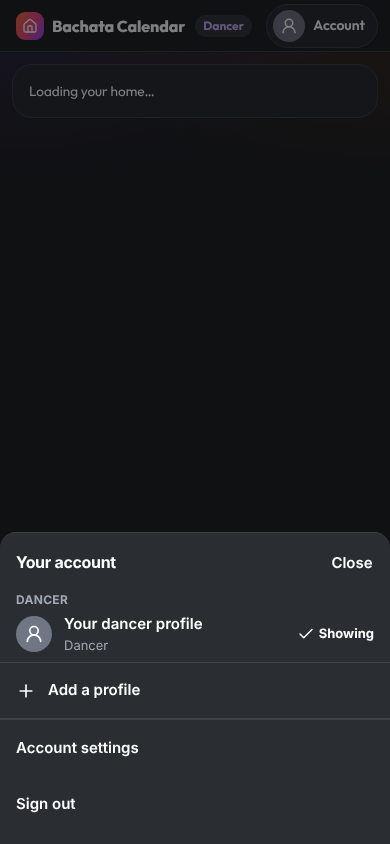
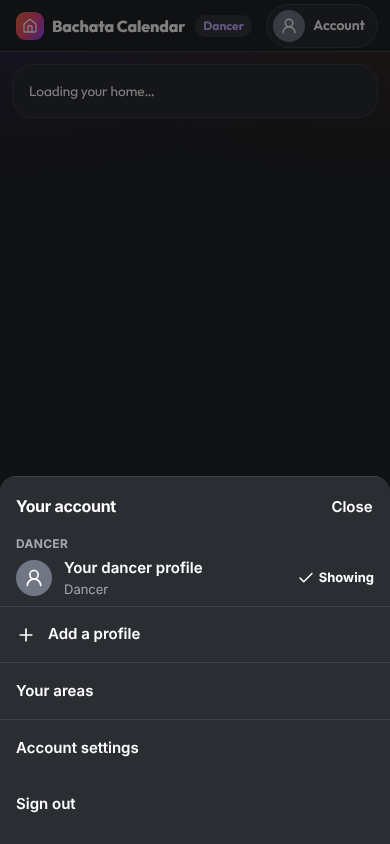
fix(dashboard-switch): dancer-area seam import, P3 walk split into test:e2e:p3 [worker-done dt_17d77993a23d]
Claude-Session: https://claude.ai/code/session_01WoGkiAc9t2iJFtXkLTnqFZ

diff --git a/tests/e2e/dashboard-switch-r4-p3.spec.ts b/tests/e2e/dashboard-switch-r4-p3.spec.ts
@@ -1,0 +1,71 @@
+import { test, expect, type Page } from '@playwright/test';
+import { OrganiserFake, PHONE, expectNoHorizontalScroll, json } from './helpers/organiserFake';
+
+// Dashboard switch, Round-4 everywhere -- the P3 / R4 organiser area part (runs in test:e2e:p3 with VITE_ENABLE_ORGANISER_P3=true).
+// Dashboard switch, Round-4 everywhere (docs/briefs/dashboard-switch-build.md) at 390x844 on the real app over the
+// route-mocked organiser fake. Flag OFF (the CI default) asserts today's screens are unchanged; flag ON asserts the
+// new look. Shots for the PR: DASH_SWITCH_SHOTS=<folder> (before-* with the flag off, after-* with it on):
+//   VITE_ENABLE_DASHBOARD_SWITCH_R4=true VITE_ENABLE_ORGANISER_P3=true npx playwright test tests/e2e/dashboard-switch-r4-p3.spec.ts
+// Shapes (prod, 2026-11-19): one organiser page is the common case (20 of 22 organisers); a dancer + organiser
+// account; Teacher picked at sign-up (10 accounts) vs Teacher merely held (127 active teaching roles).
+
+const ON = process.env.VITE_ENABLE_DASHBOARD_SWITCH_R4 === 'true';
+const P3_ON = process.env.VITE_ENABLE_ORGANISER_P3 === 'true';
+const SHOTS = process.env.DASH_SWITCH_SHOTS;
+const shot = async (page: Page, name: string, fullPage = false) => {
+  if (SHOTS) await page.screenshot({ path: `${SHOTS}/${ON ? 'after' : 'before'}-${name}.png`, fullPage });
+};
+const row = (role: string, active: boolean) => ({ role, active, complete: active });
+
+async function fake(page: Page, opts: { organiser: boolean; picked: string[] }) {
+  await new OrganiserFake({ noOrganiser: !opts.organiser, dancerProfile: 'complete' }).install(page);
+  // Teacher HELD (active role) in every shape: with the flag on it must not show unless also picked.
+  await page.route('**/rest/v1/rpc/my_roles_v1*', (r) => json(r, [row('dancer', true), row('organiser', opts.organiser), row('teacher', true), row('dj', false)]));
+  await page.route('**/rest/v1/rpc/my_role_intent_v1*', (r) => json(r, { roles: ['dancer', ...opts.picked], declined: [] }));
+  await page.route('**/rest/v1/rpc/my_profile_progress_v1*', (r) => json(r, { percent: 100, required_left: 0, publish_ready: true, steps: [{ area: 'teacher', field: 'teaching_styles', required: true, done: true }], declined: [] }));
+  await page.route('**/rest/v1/rpc/dancer_area_gate_v1*', (r) => json(r, { open: false, allowed: true }));
+}
+
+test.describe('dashboard switch, P3 area 390x844', () => {
+  test.use({ viewport: PHONE });
+
+  test('R4 organiser header and sheet', async ({ page }) => {
+    test.skip(!P3_ON, 'needs VITE_ENABLE_ORGANISER_P3=true (the P3 walks run it)');
+    await fake(page, { organiser: true, picked: [] });
+    await page.goto('/account/p3');
+    await expect(page.getByTestId('r4-header')).toBeVisible();
+    const btn = page.getByTestId('profile-switcher-button');
+    if (!ON) {
+      // Today the Round-4 organiser header has no Switch profile sheet (only the page name, which opens Switch page).
+      await expect(btn).toHaveCount(0);
+      await shot(page, 'organiser-header');
+      return;
+    }
+    await expect(btn).toBeVisible();
+    await shot(page, 'organiser-header');
+    await btn.click();
+    await expect(page.getByTestId('profile-switcher-sheet')).toHaveAttribute('data-look', 'r4');
+    await expect(page.getByTestId('profile-switcher-add')).toBeVisible();
+    await expect(page.getByTestId('profile-switcher-your-areas')).toBeVisible();
+    await expect(page.getByTestId('profile-switcher-sign-out')).toHaveCount(0);
+    await shot(page, 'organiser-sheet');
+    await expectNoHorizontalScroll(page);
+  });
+
+  test('organiser Switch page (P3 area)', async ({ page }) => {
+    test.skip(!P3_ON, 'needs VITE_ENABLE_ORGANISER_P3=true (the P3 walks run it)');
+    await fake(page, { organiser: true, picked: ['teacher'] });
+    await page.goto('/account/p3/you/switch');
+    await expect(page.getByTestId('switch-list')).toBeVisible();
+    await expect(page.getByTestId('switch-add-page')).toBeVisible();
+    if (ON) {
+      await expect(page.getByTestId('switch-soon-teacher')).toBeVisible();
+      await expect(page.getByTestId('switch-area-teacher')).toHaveCount(0);
+      await expect(page.getByTestId('add-profile-card')).toHaveCount(0);
+    } else {
+      await expect(page.getByTestId('switch-area-teacher')).toBeVisible();
+    }
+    await shot(page, 'switch-page');
+    await expectNoHorizontalScroll(page);
+  });
+});

diff --git a/tests/e2e/dashboard-switch-r4.spec.ts b/tests/e2e/dashboard-switch-r4.spec.ts
@@ -4,12 +4,12 @@ import { OrganiserFake, PHONE, expectNoHorizontalScroll, json } from './helpers/
 // Dashboard switch, Round-4 everywhere (docs/briefs/dashboard-switch-build.md) at 390x844 on the real app over the
 // route-mocked organiser fake. Flag OFF (the CI default) asserts today's screens are unchanged; flag ON asserts the
 // new look. Shots for the PR: DASH_SWITCH_SHOTS=<folder> (before-* with the flag off, after-* with it on):
-//   VITE_ENABLE_DASHBOARD_SWITCH_R4=true VITE_ENABLE_ORGANISER_P3=true npx playwright test tests/e2e/dashboard-switch-r4.spec.ts
+//   VITE_ENABLE_DASHBOARD_SWITCH_R4=true npx playwright test tests/e2e/dashboard-switch-r4.spec.ts
+// The P3 area (R4 header, Switch page) is walked in dashboard-switch-r4-p3.spec.ts (test:e2e:p3).
 // Shapes (prod, 2026-11-19): one organiser page is the common case (20 of 22 organisers); a dancer + organiser
 // account; Teacher picked at sign-up (10 accounts) vs Teacher merely held (127 active teaching roles).
 
 const ON = process.env.VITE_ENABLE_DASHBOARD_SWITCH_R4 === 'true';
-const P3_ON = process.env.VITE_ENABLE_ORGANISER_P3 === 'true';
 const SHOTS = process.env.DASH_SWITCH_SHOTS;
 const shot = async (page: Page, name: string, fullPage = false) => {
   if (SHOTS) await page.screenshot({ path: `${SHOTS}/${ON ? 'after' : 'before'}-${name}.png`, fullPage });
@@ -76,24 +76,17 @@ test.describe('dashboard switch 390x844', () => {
 
   test('organiser area sheet', async ({ page }) => {
     await fake(page, { organiser: true, picked: [] });
-    await page.goto(P3_ON ? '/account/p3' : '/account/o');
+    // The R1 organiser shell (P3 off, as this gate step runs); the R4 header is walked in dashboard-switch-r4-p3.spec.ts.
+    await page.goto('/account/o');
     const btn = page.getByTestId('profile-switcher-button');
-    if (P3_ON && !ON) {
-      // Today the Round-4 organiser header has no Switch profile sheet (only the page name, which opens Switch page).
-      await expect(page.getByTestId('r4-header')).toBeVisible();
-      await expect(btn).toHaveCount(0);
-      await shot(page, 'organiser-header');
-      return;
-    }
     await expect(btn).toBeVisible();
-    if (P3_ON) await shot(page, 'organiser-header');
     await btn.click();
     await expect(page.getByTestId('profile-switcher-sheet')).toBeVisible();
     // + Add a profile is in the organiser sheet only with the flag on.
     await expect(page.getByTestId('profile-switcher-add')).toHaveCount(ON ? 1 : 0);
     await expect(page.getByTestId('profile-switcher-sign-out')).toHaveCount(ON ? 0 : 1);
     await expect(page.getByTestId('profile-switcher-your-areas')).toBeVisible();
-    await shot(page, 'organiser-sheet');
+    await shot(page, 'organiser-r1-sheet');
     await expectNoHorizontalScroll(page);
   });
 
@@ -108,22 +101,5 @@ test.describe('dashboard switch 390x844', () => {
     await shot(page, 'settings-foot', true);
     await out.click();
     await expect(page.getByTestId('settings-signout-yes')).toBeVisible();
-  });
-
-  test('organiser Switch page (P3 area)', async ({ page }) => {
-    test.skip(!P3_ON, 'needs VITE_ENABLE_ORGANISER_P3=true (the P3 walks run it)');
-    await fake(page, { organiser: true, picked: ['teacher'] });
-    await page.goto('/account/p3/you/switch');
-    await expect(page.getByTestId('switch-list')).toBeVisible();
-    await expect(page.getByTestId('switch-add-page')).toBeVisible();
-    if (ON) {
-      await expect(page.getByTestId('switch-soon-teacher')).toBeVisible();
-      await expect(page.getByTestId('switch-area-teacher')).toHaveCount(0);
-      await expect(page.getByTestId('add-profile-card')).toHaveCount(0);
-    } else {
-      await expect(page.getByTestId('switch-area-teacher')).toBeVisible();
-    }
-    await shot(page, 'switch-page');
-    await expectNoHorizontalScroll(page);
   });
 });

diff --git a/src/components/account/profiles/ProfileSwitcherR4.tsx b/src/components/account/profiles/ProfileSwitcherR4.tsx
@@ -2,8 +2,7 @@ import { Suspense, useEffect, useId, useState, type CSSProperties, type ReactNod
 import { createPortal } from 'react-dom';
 import { Link } from 'react-router-dom';
 import { ChevronRight, Plus, X } from 'lucide-react';
-import { ACCOUNT_SETTINGS_PATH, APP_ACCOUNT_SETTINGS_PATH, ORGANISER_HOME_PATH, switcherItems, type SwitcherWhere } from '@/lib/accountRouting';
-import { ACCOUNT_SETTINGS_LABEL } from '@/modules/dancer-app/copy/sharedCopy';
+import { ACCOUNT_SETTINGS_LABEL, ACCOUNT_SETTINGS_PATH, APP_ACCOUNT_SETTINGS_PATH, ORGANISER_HOME_PATH, switcherItems, type SwitcherWhere } from '@/lib/accountRouting';
 import { dancerMessageUsUrl } from '@/lib/contactLinks';
 import { lazyWithRetry } from '@/lib/lazyWithRetry';
 import { SideAvatar, sideKind, sideTitle } from './SideAvatar';

diff --git a/docs/briefs/dashboard-switch-handover.md b/docs/briefs/dashboard-switch-handover.md
@@ -10,13 +10,16 @@ Brief: `brief/dashboard-switch:docs/briefs/dashboard-switch-build.md`. Branch `c
 - `src/modules/organiser/p3/r4/R4Shell.tsx` &mdash; flag on: top-right Switch profile button in the R4 header (lazy).
 - `src/modules/organiser/switch/index.tsx` &mdash; flag on: outlined SHOWING, Coming soon rows, one-row "+ Add a page" card (Add-a-profile card leaves).
 - `src/pages/AccountSettings.tsx` &mdash; flag on: `QuietSignOut` link at the foot (two steps); the section&rsquo;s own plain button hidden.
-- Tests: `src/components/account/profiles/__tests__/dashboardSwitchR4.test.tsx`; e2e `tests/e2e/dashboard-switch-r4.spec.ts` (in `test:e2e`).
+- Tests: `src/components/account/profiles/__tests__/dashboardSwitchR4.test.tsx`; e2e `tests/e2e/dashboard-switch-r4.spec.ts` (in `test:e2e`) and `tests/e2e/dashboard-switch-r4-p3.spec.ts` (in `test:e2e:p3`).
 - Shots: `docs/handover/dashboard-switch/` (before-* flag off, after-* flag on, 390x844).
 
 ## Owner decisions flagged in the PR
 1. Signal: intent, not `isAreaShown` (progress steps include held roles &mdash; read from prod function def).
 2. Added the sheet to the R4 organiser header (there was none since #1822).
 3. "Add card = option B, one row" read as one "+ Add a page" row.
+
+## State
+- PR #1829. tsc run on the final head: 0 errors in branch files. CI first run: two reds fixed in the last commit (dancer-area isolation import; P3 spec split).
 
 ## Left / next
 - Turn the flag on for Preview in Vercel and walk on a phone.
